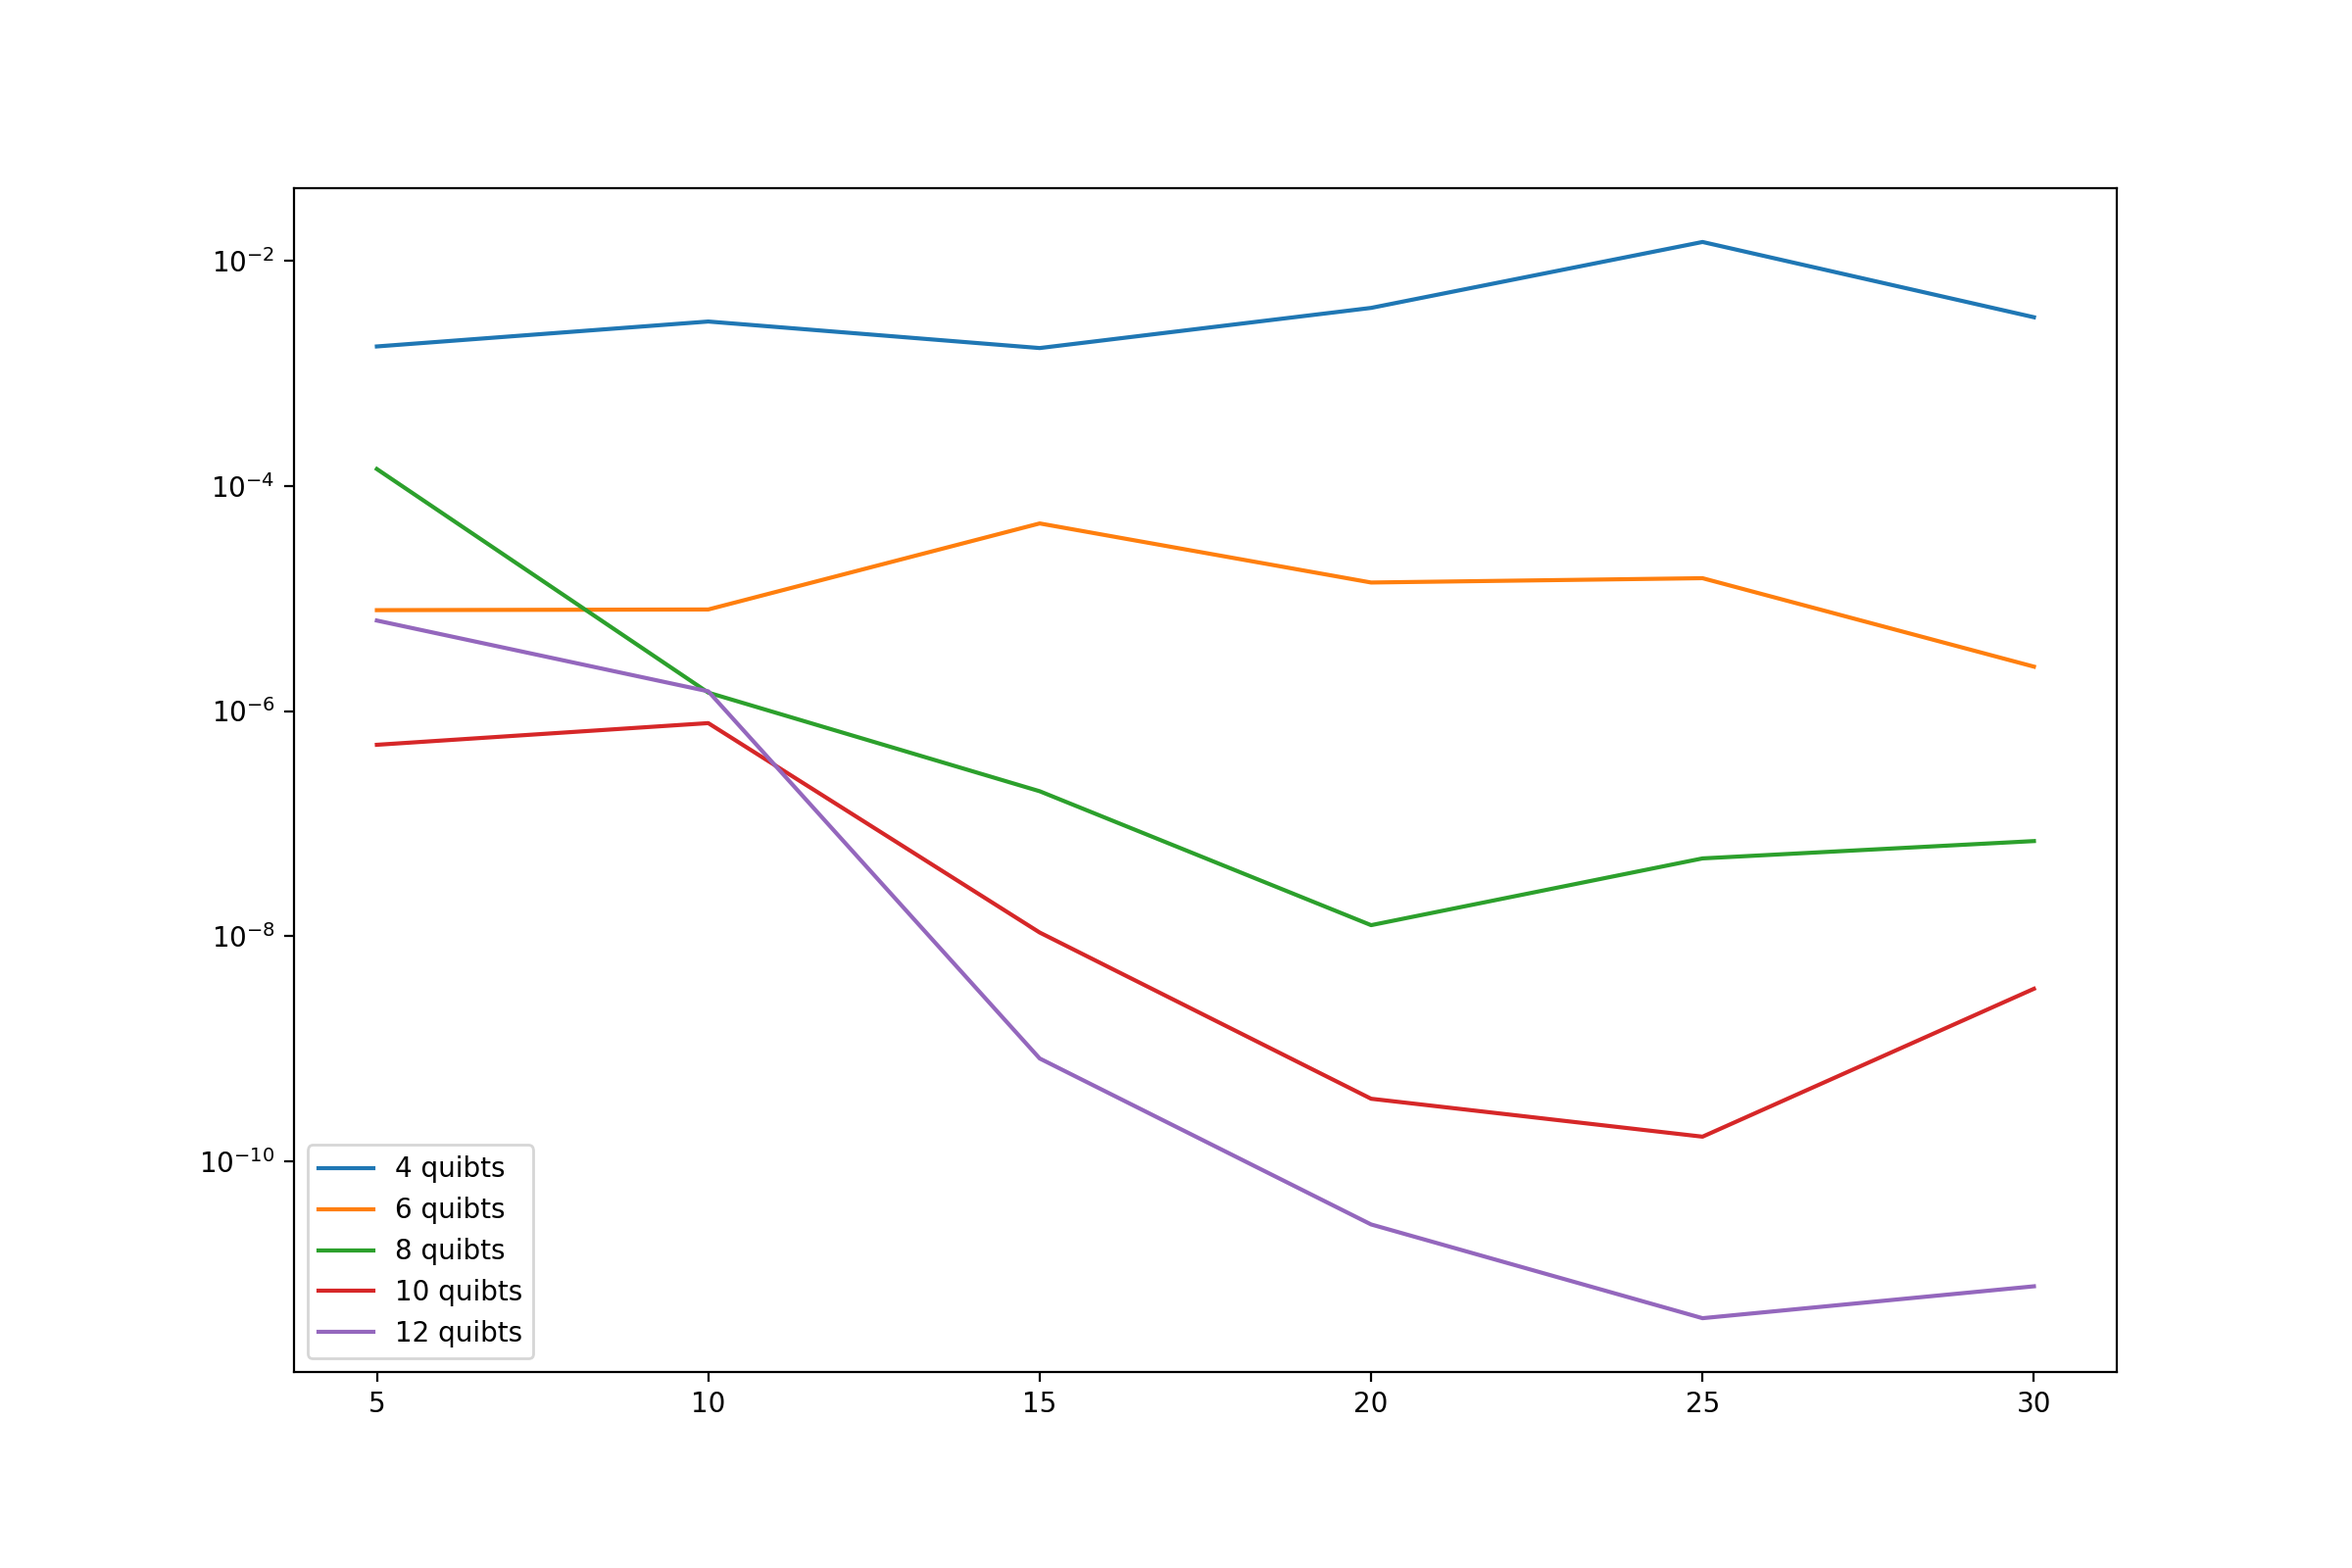
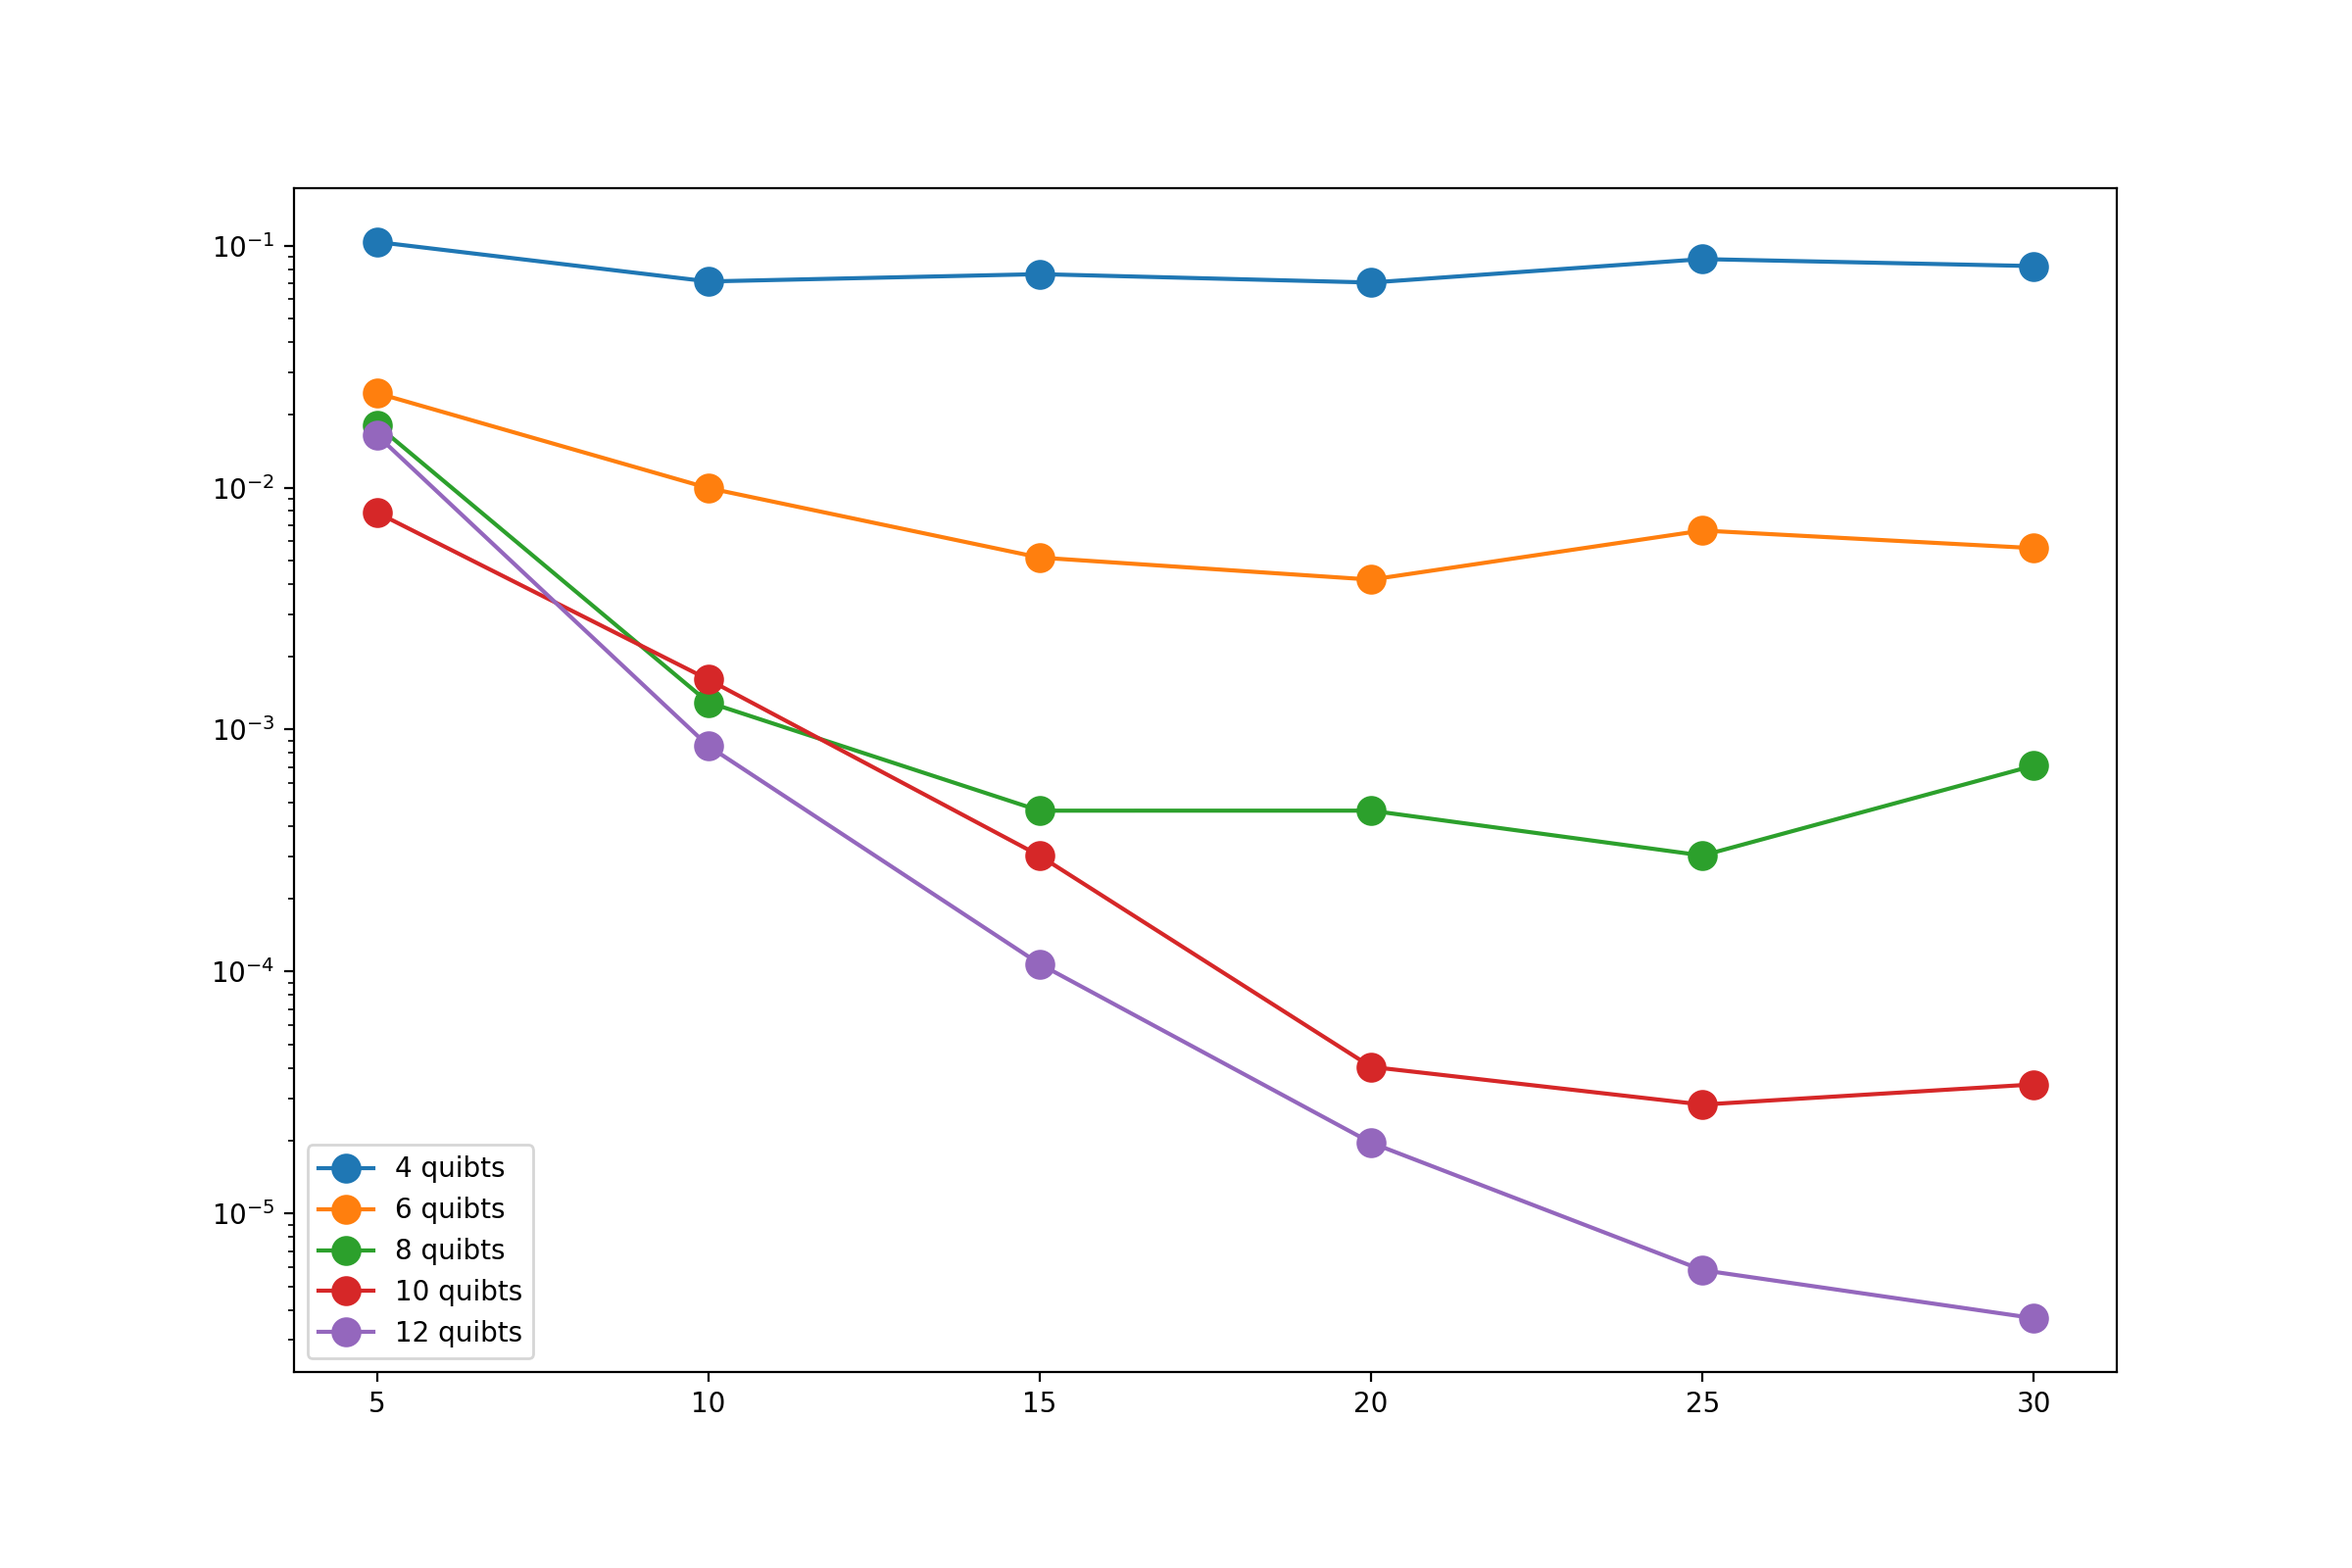
plotting

diff --git a/classical_training.py b/classical_training.py
@@ -43,8 +43,8 @@ def loss(params, qNode, x, y):
     return ce_loss
 
 
-def train(dataset="minst"):
-    assert(dataset in ["mnist", "bc", "moons"])
+def train():
+    assert(hp["dataset"] in ["mnist", "bc", "moons"])
     dev = qml.device('default.qubit', wires=hp["qubits"], shots=hp["shots"])
     qNode = qml.QNode(func=circuit, device=dev)
 
@@ -58,22 +58,22 @@ def train(dataset="minst"):
                                size=(hp["layers"], hp["qubits"], 2)
                                )
 
-    if dataset == "mnist":
+    if hp["dataset"] == "mnist":
         train_x, train_y, test_x, test_y = load_mnist(seed=hp["seed"],
                                                       train_size=hp["train_size"],
                                                       test_size=hp["test_size"],
                                                       classes=hp["classes"],
-                                                      wires=hp["qubits"]
+                                                      wires=hp["output_qubits"]
                                                       )
         train_y = train_y[:, :len(hp["classes"])]
         test_y = test_y[:, :len(hp["classes"])]
-    elif dataset == "bc":
+    elif hp["dataset"] == "bc":
         train_x, train_y, test_x, test_y = load_breast_cancer_lju(hp["train_size"],
                                                                   hp["test_size"]
                                                                   )
         train_y = labels_to_one_hot(train_y)
         test_y = labels_to_one_hot(test_y)
-    elif dataset == "moons":
+    elif hp["dataset"] == "moons":
         train_x, train_y, test_x, test_y = load_moons_dataset(hp["train_size"],
                                                               hp["test_size"]
                                                               )
@@ -97,29 +97,52 @@ def train(dataset="minst"):
                 gradients.append(np.var(g))
                 print("Gradients", np.var(g))
 
-            if step % hp["test_every"] == 0:
-                accuracy = evaluate_classical(test_x, test_y, qNode, params)
-                accuracys.append((step, accuracy))
-                print(f"Accuracy in step {step}: {accuracy}")
-                print("Accuracys:\n", accuracys)
+            # if step % hp["test_every"] == 0:
+            #     accuracy = evaluate_classical(test_x, test_y, qNode, params)
+            #     accuracys.append((step, accuracy))
+            #     print(f"Accuracy in step {step}: {accuracy}")
+            #     print("Accuracys:\n", accuracys)
 
             step += 1
             if step >= hp["steps"] + 1:
                 break
 
-    print("Accuracys:\n", accuracys)
-    print("Maximum: ", max(np.array(accuracys)[:, 1]))
+    if accuracys:
+        print("Accuracys:\n", accuracys)
+        print("Maximum: ", max(np.array(accuracys)[:, 1]))
 
     print("Gradients Avg: ", np.average(gradients))
-
-    with open(f"./trainings/{starting_time}_classical.json", "w") as json_file:
-        json.dump(hp, json_file)
-    np.savez(f"./trainings/{starting_time}_classical.npz",
-             accuracys=accuracys,
-             losses=losses,
-             gradients=gradients,
-             params=params
-             )
+    return np.average(gradients)
+    # with open(f"./trainings/{starting_time}_classical.json", "w") as json_file:
+    #     json.dump(hp, json_file)
+    # np.savez(f"./trainings/{starting_time}_classical.npz",
+    #          accuracys=accuracys,
+    #          losses=losses,
+    #          gradients=gradients,
+    #          params=params
+    #          )
 
 if __name__ == "__main__":
-    train("mnist")
+    n_layers = [5, 10, 15, 20, 25, 30]
+    n_qubits = [4, 6, 8, 10, 12]
+    seeds = [1]
+
+    gradients = np.zeros((len(n_layers), len(n_qubits), len(seeds)))
+
+    for il, l in enumerate(n_layers):
+        for iq, q in enumerate(n_qubits):
+            for js, s in enumerate(seeds):
+                hp["layers"] = l
+                hp["qubits"] = q
+                hp["seeds"] = s
+                print(l, q, s)
+                grad = train()
+                gradients[il, iq, js] = grad
+
+    np.savez(f"./trainings/{starting_time}_grads_cl.npz", grads=gradients,
+                                                          n_layers=np.array(n_layers),
+                                                          n_qubits=np.array(n_qubits),
+                                                          seeds=np.array(seeds))
+    print(gradients)
+
+    # train()

diff --git a/main.py b/main.py
@@ -111,15 +111,15 @@ def train():
             gradients.append(np.var(g))
             print("Gradients", np.var(g))
 
-        if step % hp["test_every"] == 0:
-            accuracy, dbi = evaluate(hp["dataset"], train_x, train_y,
-                                     test_x, test_y,
-                                     qNode, params, step,
-                                     hp["classes"], hp["output_qubits"]
-                                     )
-            accuracys.append((step, accuracy))
-            dbis.append((step, dbi))
-            print("Accuracys:\n", accuracys)
+        # if step % hp["test_every"] == 0:
+        #     accuracy, dbi = evaluate(hp["dataset"], train_x, train_y,
+        #                              test_x, test_y,
+        #                              qNode, params, step,
+        #                              hp["classes"], hp["output_qubits"]
+        #                              )
+        #     accuracys.append((step, accuracy))
+        #     dbis.append((step, dbi))
+        #     print("Accuracys:\n", accuracys)
 
         # if (step+1) % hp["update_sz_every"] == 0:
         #     stepsize *= hp["sz_factor"]
@@ -136,45 +136,49 @@ def train():
 
     if gradients:
         print("Gradients Avg: ", np.average(gradients))
+        return np.average(gradients)
 
-    plot_curves(np.array(accuracys),
-                np.array(dbis),
-                np.array(losses),
-                f"Qubits: {hp['qubits']}, " +
-                f"Layers: {hp['layers']}, " +
-                f"Classes: {hp['classes']}, " +
-                f"Output_dim: {hp['output_qubits']}"
-                )
+    # plot_curves(np.array(accuracys),
+    #             np.array(dbis),
+    #             np.array(losses),
+    #             f"Qubits: {hp['qubits']}, " +
+    #             f"Layers: {hp['layers']}, " +
+    #             f"Classes: {hp['classes']}, " +
+    #             f"Output_dim: {hp['output_qubits']}"
+    #             )
 
-    with open(f"./trainings/{starting_time}.json", "w") as json_file:
-        json.dump(hp, json_file)
-    np.savez(f"./trainings/{starting_time}.npz",
-             accuracys=accuracys,
-             dbis=dbis,
-             losses=losses,
-             gradients=gradients,
-             params=params
-             )
+    # with open(f"./trainings/{starting_time}.json", "w") as json_file:
+    #     json.dump(hp, json_file)
+    # np.savez(f"./trainings/{starting_time}.npz",
+    #          accuracys=accuracys,
+    #          dbis=dbis,
+    #          losses=losses,
+    #          gradients=gradients,
+    #          params=params
+    #          )
 
 
 if __name__ == "__main__":
-    # n_layers = [5, 10, 15, 20, 25, 30]
-    # n_qubits = [4, 6, 8, 10, 12]
-    # seeds = [1]
+    n_layers = [5, 25, 50, 75, 100]
+    n_qubits = [4, 6, 8, 10, 12]
+    seeds = [1, 2, 3, 4, 5]
 
-    # gradients = np.zeros((len(n_layers), len(n_qubits), len(seeds)))
+    gradients = np.zeros((len(n_layers), len(n_qubits), len(seeds)))
 
-    # for il, l in enumerate(n_layers):
-    #     for iq, q in enumerate(n_qubits):
-    #         for js, s in enumerate(seeds):
-    #             hp["layers"] = l
-    #             hp["qubits"] = q
-    #             hp["seeds"] = s
-    #             print(l, q, s)
-    #             grad = train()
-    #             gradients[il, iq, js] = grad
+    for il, l in enumerate(n_layers):
+        for iq, q in enumerate(n_qubits):
+            for js, s in enumerate(seeds):
+                hp["layers"] = l
+                hp["qubits"] = q
+                hp["seeds"] = s
+                print(l, q, s)
+                grad = train()
+                gradients[il, iq, js] = grad
 
-    # np.savez(f"./trainings/{starting_time}_grads.npz", grads=gradients)
-    # print(gradients)
+    np.savez(f"./trainings/{starting_time}_grads.npz", grads=gradients,
+                                                       n_layers=np.array(n_layers),
+                                                       n_qubits=np.array(n_qubits),
+                                                       seeds=np.array(seeds))
+    print(gradients)
 
-    train()
+    # train()
